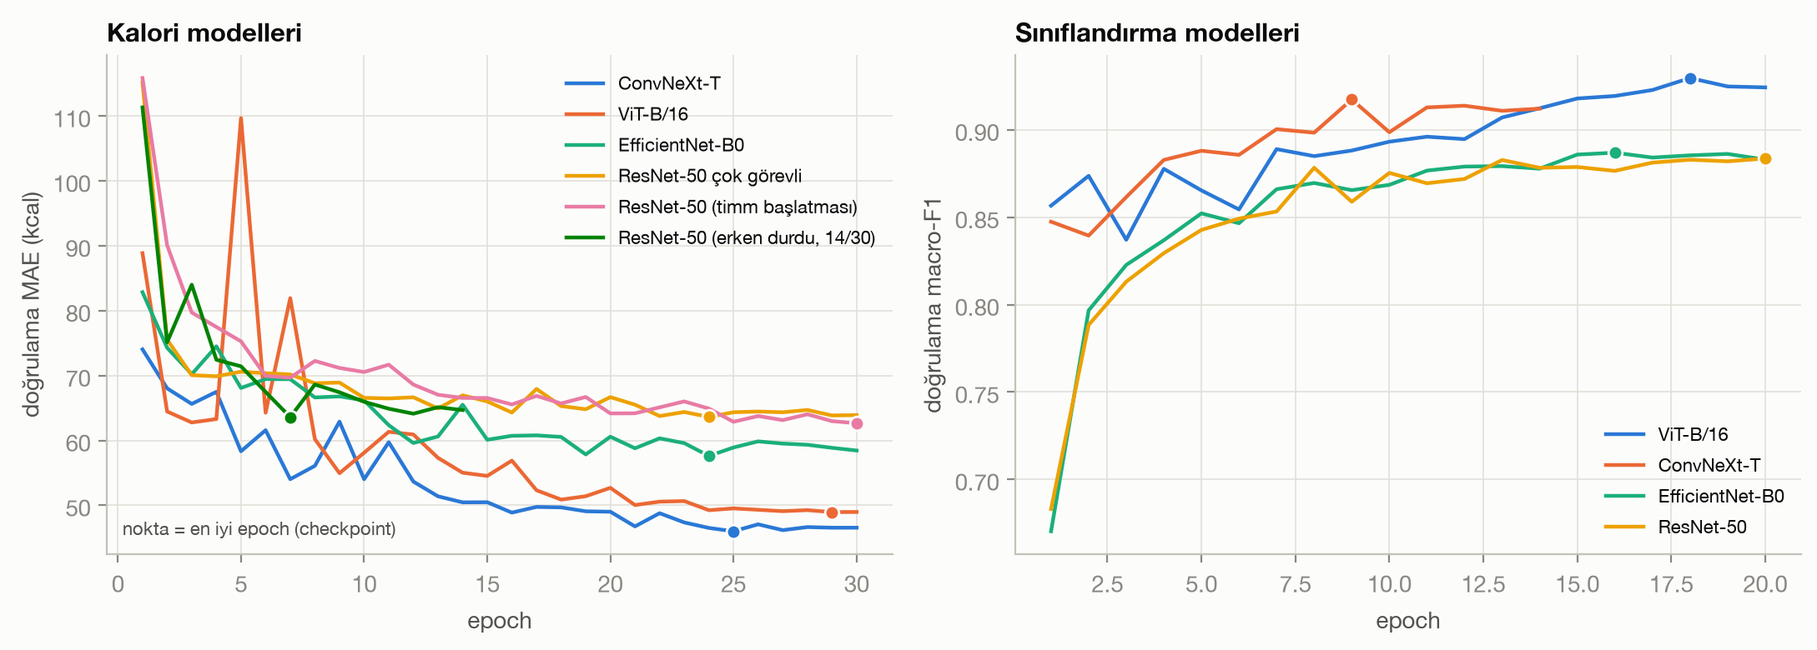
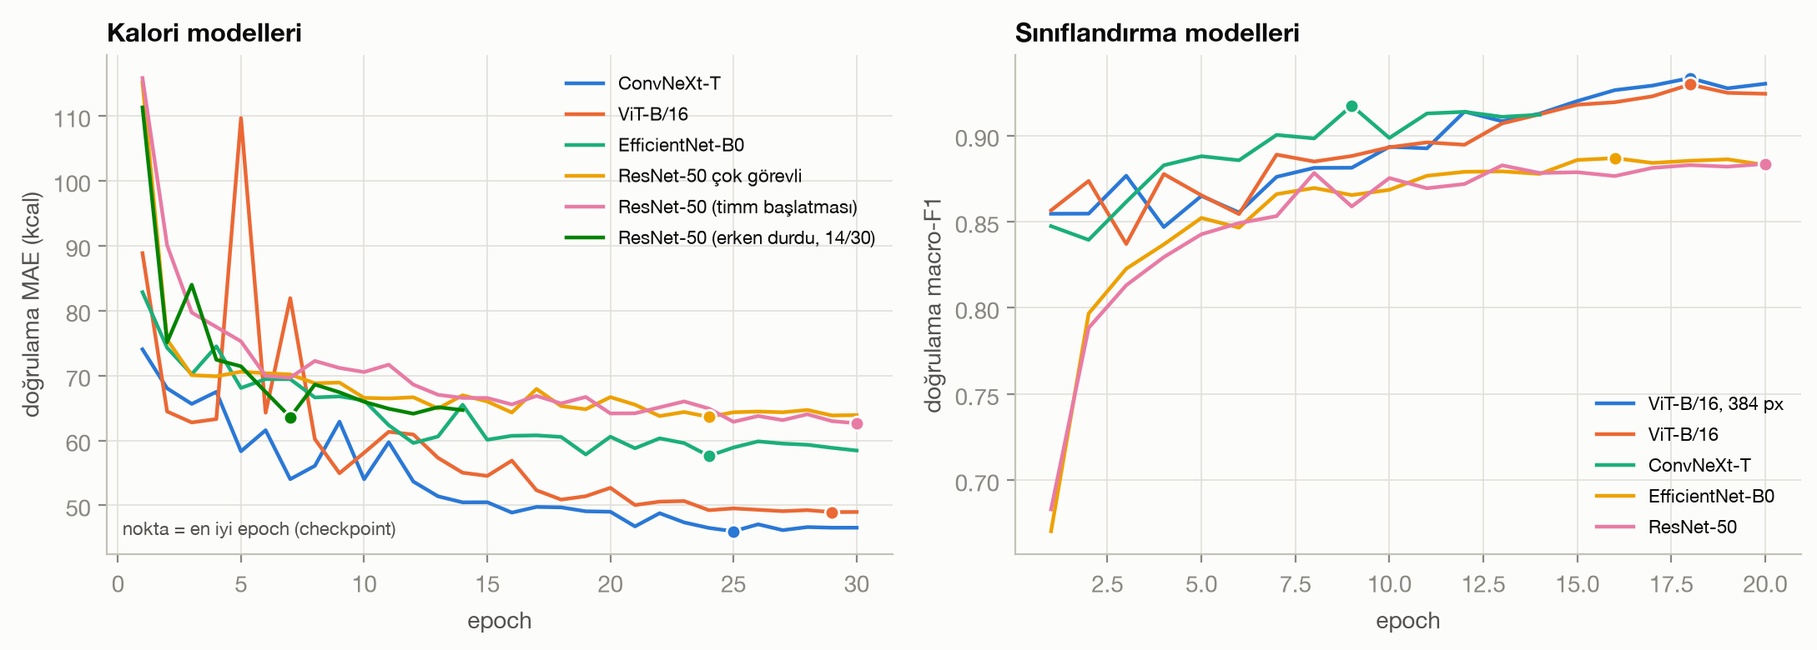
Adım 17 sonuçları: ablation tablosu ve bulguları README §2, Tablo 1-2 güncellendi, make_figures/leakage yeni modelleri kapsıyor, Adım 18 önerisi

diff --git a/src/make_figures.py b/src/make_figures.py
@@ -55,22 +55,28 @@ MODEL_NAMES = {
     "efficientnet_b0_reg": "EfficientNet-B0",
     "vit_b16_reg": "ViT-B/16",
     "convnext_tiny_reg": "ConvNeXt-T",
+    "convnext_tiny_reg_mt": "ConvNeXt-T çok görevli",
+    "convnext_tiny_reg_log1p": "ConvNeXt-T, log1p hedef",
+    "convnext_tiny_reg_noaug": "ConvNeXt-T, artırmasız",
     "vlm_gemini_3_5_flash_lite": "VLM sıfır-atış (Gemini 3.5 Flash-Lite)",
     "resnet50_cls": "ResNet-50",
     "efficientnet_b0_cls": "EfficientNet-B0",
     "convnext_tiny_cls": "ConvNeXt-T",
     "vit_b16_cls": "ViT-B/16",
+    "vit_b16_384_cls": "ViT-B/16, 384 px",
 }
 # Tablo 1 (sınıflandırma) ve Tablo 2 (kalori) satırları, README'deki sırayla
-TABLO1_MODELS = ["naive_most_frequent", "cnn_logreg", "resnet50_cls", "efficientnet_b0_cls", "convnext_tiny_cls", "vit_b16_cls"]
+TABLO1_MODELS = ["naive_most_frequent", "cnn_logreg", "resnet50_cls", "efficientnet_b0_cls", "convnext_tiny_cls", "vit_b16_cls", "vit_b16_384_cls"]
 TABLO2_MODELS = ["naive_mean", "cnn_xgb", "resnet50_reg_timminit", "resnet50_reg", "resnet50_reg_mt",
                  "efficientnet_b0_reg_timminit", "efficientnet_b0_reg", "vit_b16_reg", "convnext_tiny_reg",
-                 "vlm_gemini_3_5_flash_lite"]
+                 "convnext_tiny_reg_mt", "convnext_tiny_reg_log1p", "convnext_tiny_reg_noaug", "vlm_gemini_3_5_flash_lite"]
 # Model karşılaştırma figürü ve aralık başına MAE: kötü/yinelenen run'lar hariç
 COMPARE_MODELS = ["naive_mean", "vlm_gemini_3_5_flash_lite", "cnn_xgb", "resnet50_reg_timminit", "resnet50_reg_mt",
-                  "efficientnet_b0_reg", "vit_b16_reg", "convnext_tiny_reg"]
+                  "efficientnet_b0_reg", "vit_b16_reg", "convnext_tiny_reg", "convnext_tiny_reg_mt"]
+# Ablation tablosu (Adım 17): ConvNeXt-T üzerinde tek tek değişiklikler; ilk eleman referans
+ABLATION_MODELS = ["convnext_tiny_reg", "convnext_tiny_reg_mt", "convnext_tiny_reg_log1p", "convnext_tiny_reg_noaug"]
 HISTORY_REG = ["convnext_tiny_reg", "vit_b16_reg", "efficientnet_b0_reg", "resnet50_reg_mt", "resnet50_reg_timminit", "resnet50_reg"]
-HISTORY_CLS = ["vit_b16_cls", "convnext_tiny_cls", "efficientnet_b0_cls", "resnet50_cls"]
+HISTORY_CLS = ["vit_b16_384_cls", "vit_b16_cls", "convnext_tiny_cls", "efficientnet_b0_cls", "resnet50_cls"]
 # Literatür referansları (README §2 tablosu): kcal MAE
 LITERATURE = [("Sıfır-atış VLM (Gemini 3.0 Flash)", 80.7), ("Nutrition5k RGB (JFT ön eğitimli)", 70.6)]
 LITERATURE_BAND = (37.0, 40.0, "Segmentasyon / tahmini derinlik")
@@ -182,6 +188,20 @@ def tablo3_md(results, models=TABLO2_MODELS):
                      f"{fmt_tr(r.f1, 3)} [{fmt_tr(r.f1_ci_low, 3)}–{fmt_tr(r.f1_ci_high, 3)}]"])
     return md_table(["Tablo 3 · Kalori aralığı (düşük < 116,1 ≤ orta < 313,7 ≤ yüksek kcal, test)",
                      "Doğruluk", "Precision (macro)", "Recall (macro)", "Macro-F1 [%95 GA]"], rows)
+
+
+def tablo_ablation_md(results, models=ABLATION_MODELS):
+    """Adım 17 ablation tablosu: referansa göre MAE farkı yalnızca nokta tahmin; güven aralığı için `src.compare`."""
+    base = results_row(results, "calorie", models[0]).MAE
+    rows = []
+    for m in models:
+        r = results_row(results, "calorie", m)
+        b = results_row(results, "calorie_bins", m)
+        d = r.MAE - base
+        rows.append([model_name(m), f"{fmt_tr(r.MAE)} [{fmt_tr(r.MAE_ci_low)}–{fmt_tr(r.MAE_ci_high)}]",
+                     "—" if m == models[0] else f"{'+' if d >= 0 else '−'}{fmt_tr(abs(d))}",
+                     fmt_tr(r.PMAE, 1, percent=True), fmt_tr(r.R2, 2), fmt_tr(r.within_100kcal, 1, percent=True), fmt_tr(b.f1, 3)])
+    return md_table(["Ablation (ConvNeXt-T, Nutrition5k test)", "MAE (kcal) [%95 GA]", "Δ MAE", "PMAE", "R²", "±100 kcal içinde", "Tablo 3 F1"], rows)
 
 
 # ---------------------------------------------------------------- veri okuma
@@ -491,7 +511,8 @@ def main(argv=None):
 
     # 10. tablolar
     for name, text in [("tablo1.md", tablo1_md(results)), ("tablo2.md", tablo2_md(results)),
-                       ("tablo3_kalori_araligi.md", tablo3_md(results))]:
+                       ("tablo3_kalori_araligi.md", tablo3_md(results)),
+                       ("tablo_ablation.md", tablo_ablation_md(results))]:
         (results_dir / name).write_text(text, encoding="utf-8")
         print(f"→ results/{name}\n{text}")
     return captions

diff --git a/src/leakage.py b/src/leakage.py
@@ -20,10 +20,11 @@ from .data import dish_time, load_n5k_split, read_dish_ingredients
 from .metrics import bootstrap_ci, mae
 
 MODELS = ["naive_mean", "vlm_gemini_3_5_flash_lite", "cnn_xgb", "resnet50_reg_timminit", "resnet50_reg_mt",
-          "efficientnet_b0_reg", "vit_b16_reg", "convnext_tiny_reg"]
+          "efficientnet_b0_reg", "vit_b16_reg", "convnext_tiny_reg", "convnext_tiny_reg_mt"]
 LABELS = {"naive_mean": "Naif", "vlm_gemini_3_5_flash_lite": "VLM (Flash-Lite)", "cnn_xgb": "ResNet-50 + XGBoost",
           "resnet50_reg_timminit": "ResNet-50", "resnet50_reg_mt": "ResNet-50 çok görevli",
-          "efficientnet_b0_reg": "EfficientNet-B0", "vit_b16_reg": "ViT-B/16", "convnext_tiny_reg": "ConvNeXt-T"}
+          "efficientnet_b0_reg": "EfficientNet-B0", "vit_b16_reg": "ViT-B/16", "convnext_tiny_reg": "ConvNeXt-T",
+          "convnext_tiny_reg_mt": "ConvNeXt-T çok görevli"}
 
 
 def has_train_sibling(test_ids, train_ids, ingredients, gap=VAL_GROUP_GAP_SEC):

diff --git a/README.md b/README.md
@@ -104,7 +104,8 @@ Uçtan uca ince ayar, §6.1'deki ortak ayarlar (AdamW, omurga 1e-4 / başlık 1e
 | ResNet-50 (ince ayar) | %91,3 | 0,912 [0,905–0,919] | %99,0 | 23,6 M | 1,31 |
 | EfficientNet-B0 (ince ayar) | %91,7 | 0,917 [0,909–0,924] | %99,0 | 4,0 M | 0,70 |
 | ConvNeXt-T (ince ayar) | %94,1 | 0,941 [0,935–0,947] | %99,4 | 27,8 M | 1,49 |
-| **ViT-B/16 (ince ayar)** | **%95,1** | **0,951** [0,945–0,956] | %99,3 | 85,8 M | 2,40 |
+| ViT-B/16 (ince ayar) | %95,1 | 0,951 [0,945–0,956] | %99,3 | 85,8 M | 2,40 |
+| **ViT-B/16, 384 px (Adım 17)** | **%95,7** | **0,957** [0,952–0,962] | %99,4 | 86,1 M | 9,69 |
 
 | Tablo 2 · Nutrition5k (test) | MAE (kcal) | PMAE | R² | ±100 kcal içinde | Tablo 3 F1 | MAE balıksız / balıklı |
 | --- | --- | --- | --- | --- | --- | --- |
@@ -114,10 +115,13 @@ Uçtan uca ince ayar, §6.1'deki ortak ayarlar (AdamW, omurga 1e-4 / başlık 1e
 | EfficientNet-B0, hatalı başlatma (ilk run) | 104,4 [97,0–112,4] | %40,9 | 0,58 | %57,6 | 0,600 | — |
 | EfficientNet-B0, düzeltilmiş başlatma | 52,8 [47,9–58,3] | %20,7 | 0,86 | %85,0 | 0,817 | 51,2 / 86,6 |
 | ViT-B/16 (Adım 13) | 47,3 [42,2–52,8] | %18,5 | 0,87 | %86,6 | 0,859 | 45,8 / 79,2 |
-| **ConvNeXt-T (Adım 13)** | **41,4** [37,3–46,4] | **%16,2** | **0,89** | **%89,0** | **0,861** | 39,8 / 75,1 |
+| ConvNeXt-T (Adım 13) | 41,4 [37,3–46,4] | %16,2 | 0,89 | %89,0 | 0,861 | 39,8 / 75,1 |
+| **ConvNeXt-T çok görevli: kalori + kütle + makrolar (Adım 17)** | **40,3** [36,2–45,3] | **%15,8** | **0,90** | %88,4 | 0,869 | 38,4 / 80,8 |
+| ConvNeXt-T, `log1p` hedef (Adım 17) | 43,3 [38,8–48,6] | %17,0 | 0,88 | **%89,9** | **0,871** | 41,5 / 81,2 |
+| ConvNeXt-T, veri artırmasız (Adım 17) | 46,2 [41,4–51,2] | %18,1 | 0,88 | %86,2 | 0,857 | 44,9 / 73,0 |
 | VLM sıfır-atış: Gemini 3.5 Flash-Lite (Adım 14) | 82,1 [73,8–90,0] | %32,1 | 0,65 | %74,0 | 0,751 | 81,6 / 93,0 |
 
-Balıklı tabak = malzeme listesinde `fish` geçen tabak; test kümesinde 23 tane (484 balıksız). Eski kalori sonuçları `results.csv`'de `*_timminit` adıyla duruyor.
+Balıklı tabak = malzeme listesinde `fish` geçen tabak; test kümesinde 23 tane (484 balıksız). Eski kalori sonuçları `results.csv`'de `*_timminit` adıyla duruyor. Adım 17 satırları aşağıdaki ablation bölümünde yorumlanıyor.
 
 **Adım 10–11 bulguları (ilk Kaggle run'ı):**
 
@@ -129,12 +133,31 @@ Balıklı tabak = malzeme listesinde `fish` geçen tabak; test kümesinde 23 tan
 **Adım 12–13 bulguları (ikinci Kaggle run'ı, 29 Ekim):**
 
 5. **Kaloride en iyi model ConvNeXt-T: 41,4 kcal, PMAE %16,2.** Fark ViT-B/16'ya göre −5,9 kcal [−8,9; −3,1], EfficientNet-B0'a göre −11,4 [−15,5; −7,7], klasik ML'nin en iyisi XGBoost'a göre −35,9 [−41,6; −30,6]; hepsi anlamlı. Her iki literatür hedefi (80,7 ve 70,6) artık bütün ince ayarlı modellerce geçildi; ConvNeXt-T, segmentasyon/derinlik kullanan çalışmaların 37–40 kcal aralığının hemen üstünde ve **yalnızca RGB** kullanıyor. Kardeş-sızıntısı endişesi Adım 16'da ölçüldü ve etkisi çıkmadı (§2), literatürle karşılaştırma bu açıdan güvenli.
-6. **Sınıflandırmada en iyi model ViT-B/16: F1 0,951.** ConvNeXt-T'den +0,009 [+0,004; +0,015], EfficientNet-B0'dan +0,034 [+0,028; +0,041]; ikisi de anlamlı ama küçük. ViT'nin parametresi EfficientNet-B0'ın 21 katı, çıkarımı 3,4 kat yavaş. Demo için EfficientNet-B0 veya ConvNeXt-T daha mantıklı; son seçim Adım 18'de.
+6. **Sınıflandırmada en iyi model ViT-B/16: F1 0,951.** ConvNeXt-T'den +0,009 [+0,004; +0,015], EfficientNet-B0'dan +0,034 [+0,028; +0,041]; ikisi de anlamlı ama küçük. ViT'nin parametresi EfficientNet-B0'ın 21 katı, çıkarımı 3,4 kat yavaş. Demo için EfficientNet-B0 veya ConvNeXt-T daha mantıklı. Adım 17'de 384 px ViT bunu 0,957'ye çıkardı (aşağıda).
 7. **ResNet-50 düzeltilmiş başlatmayla kötüleşti (59,7 → 68,7; +9,0 [+4,7; +13,8]) ve bunun sebebi başlatma değil, erken durdurma.** Yeni run 7. epoch'ta en iyi val'ini (63,6) gördü, 7 epoch iyileşme olmayınca 14. epoch'ta durdu; eski run 30 epoch'un tamamını koştu ve val'i 62,7'ydi. Val MAE'leri neredeyse aynı (63,6 ve 62,7) ama test 9 kcal farklı: **280 tabaklık val, model seçimi için gürültülü**, ve `--patience 7` cosine'ın ortasında kesebiliyor. Düzeltilmiş başlatmayla başlayan diğer üç kalori modeli (EfficientNet-B0, ConvNeXt-T, ViT) 24–29. epoch'ta en iyisini buldu ve sorun yaşamadı. Adım 17 için ders: kalori ablation'larında `--patience` ≥ 10 (veya sabit 30 epoch) ve mümkünse 2–3 tohumla tekrar.
-8. **Çok görevli başlık (Adım 12) en az tek görevli kadar iyi; "daha iyi" demek için kanıt yetersiz.** ResNet-50 çok görevli 58,0 kcal: aynı run'daki tek görevli ResNet-50'den (68,7) anlamlı iyi (−10,7 [−14,9; −7,0]), ama eski tek görevli run'dan (59,7) farkı anlamlı değil (−1,6 [−5,4; +2,4]). Tek görevli run erken durduğu için karşılaştırma kirli (madde 7). Yan çıktılar (test MAE): kütle 41,4 g, yağ 4,3 g, karbonhidrat 6,5 g, protein 6,2 g. Temiz cevap için Adım 17'de ConvNeXt-T'ye çok görevli başlık eklenip aynı ayarlarla tek görevliyle karşılaştırılmalı; §3'teki araştırma sorusu önerisi buna bağlı.
+8. **Çok görevli başlık (Adım 12) en az tek görevli kadar iyi; "daha iyi" demek için kanıt yetersiz.** ResNet-50 çok görevli 58,0 kcal: aynı run'daki tek görevli ResNet-50'den (68,7) anlamlı iyi (−10,7 [−14,9; −7,0]), ama eski tek görevli run'dan (59,7) farkı anlamlı değil (−1,6 [−5,4; +2,4]). Tek görevli run erken durduğu için karşılaştırma kirli (madde 7). Yan çıktılar (test MAE): kütle 41,4 g, yağ 4,3 g, karbonhidrat 6,5 g, protein 6,2 g. Temiz tekrar Adım 17'de ConvNeXt-T ile yapıldı: fark yine anlamlı değil (aşağıda, ablation madde 1).
 9. **Balıklı tabaklar bütün modellerde 1,7–1,9 kat daha kötü** (ConvNeXt-T: balıksız 39,8, balıklı 75,1 kcal). EDA'daki bulguyla tutarlı: balık kalorisi veri setinde eksik kayıtlı, yani hata kısmen etiketten geliyor. Raporda Tablo 2'nin yanında ayrı sütun olarak verilmeli; Adım 16 hata analizinde "en kötü 20 tabak" listesinde balıklılar işaretlenmeli.
 10. **Val–test ilişkisi beklendiği gibi.** Kaloride test, val'den iyi (ConvNeXt-T 46,0 → 41,4), kardeş-sızıntısı tahminiyle uyumlu; sınıflandırmada da test > val (ViT 0,930 → 0,951), madde 3'teki sebeple.
 11. **Süre (T4, bir epoch):** kalori modelleri 27–30 sn (2472 görüntü); sınıflandırma EfficientNet-B0 52 sn, ResNet-50 73 sn, ConvNeXt-T 83 sn, ViT-B/16 145 sn (16 865 görüntü). Notebook 11 toplam ~2,5 saat sürdü (eğitim ~2,2 sa + değerlendirme).
+
+### Ablation bulguları (Adım 17, `notebooks/12_ablation_kaggle_adim17.ipynb`, Kaggle T4, 31 Ekim – 1 Kasım)
+
+Adım 13'teki ConvNeXt-T ayarları sabit tutuldu (AdamW, 1e-4 / 1e-3, 30 epoch, L1, 224 px, tohum 42); her satırda **tek bir şey** değişti. Erken durdurma `--patience 10` ile yapıldı ve hiçbir run erken durmadı (en iyi epoch 22–25/30), yani Adım 12–13'teki ResNet-50 sorunu (madde 7) tekrarlanmadı. Tablo `python -m src.make_figures` ile `results/tablo_ablation.md`'ye de yazılır; Δ sütunu nokta tahmindir, güven aralıkları metinde (`src.compare`, eşleştirilmiş bootstrap).
+
+| Ablation (ConvNeXt-T, Nutrition5k test) | MAE (kcal) [%95 GA] | Δ MAE | PMAE | R² | ±100 kcal içinde | Tablo 3 F1 | Yan çıktılar (test MAE) |
+| --- | --- | --- | --- | --- | --- | --- | --- |
+| ConvNeXt-T, yalnızca kalori (Adım 13, referans) | 41,4 [37,3–46,4] | — | %16,2 | 0,89 | %89,0 | 0,861 | — |
+| + çok görevli başlık (kalori + kütle + yağ + karbonhidrat + protein) | **40,3** [36,2–45,3] | −1,1 | **%15,8** | **0,90** | %88,4 | 0,869 | kütle 25,5 g · yağ 3,1 g · karb 4,6 g · protein 4,2 g |
+| `log1p` hedef (yalnızca kalori) | 43,3 [38,8–48,6] | +1,9 | %17,0 | 0,88 | **%89,9** | **0,871** | — |
+| veri artırması yok (yalnızca kalori) | 46,2 [41,4–51,2] | +4,7 | %18,1 | 0,88 | %86,2 | 0,857 | — |
+| Sınıflandırma: ViT-B/16 224 px → **384 px** (Food-101, Tablo 1) | F1 0,951 → **0,957** [0,952–0,962] | +0,007 | — | — | — | — | 2,40 → 9,69 ms/görüntü; 145 → 588 sn/epoch |
+
+1. **Çok görevli başlık kaloriyi anlamlı iyileştirmiyor, ama bedavaya kütle ve makro veriyor.** 40,3'e karşı 41,4: fark −1,1 kcal [−2,8; +0,6], anlamlı değil. Bu, araştırma sorusunun (§3 Açık konular) temiz cevabı: *"kütle ve makroları birlikte öğrenmek yalnızca kalori öğrenmekten daha iyi değil, ama daha kötü de değil; aynı maliyetle dört ek çıktı veriyor."* Yan çıktılar ResNet-50 çok görevliden (madde 8) belirgin iyi: kütle 41,4 → 25,5 g, yağ 4,3 → 3,1 g, karbonhidrat 6,5 → 4,6 g, protein 6,2 → 4,2 g. Her iki model de 25. epoch'ta en iyi val'ini buldu; epoch süresi aynı (27–29 sn). **Adım 18 önerisi:** demo ve final satırı için çok görevli ConvNeXt-T (kalori eşit, çıktı daha zengin).
+2. **`log1p` hedef kaloriyi iyileştirmiyor; EDA'daki "ham kcal + L1" kararı doğruydu.** 43,3'e karşı 41,4: +1,9 [−0,2; +4,2], sınırda ama anlamlı değil; çok görevliye göre ise anlamlı kötü (+3,0 [+0,8; +5,5]). Beklenen etkisi görülüyor: hata küçük tabaklara kayıyor, MAPE düşüyor (%28,6 → %24,9), Tablo 3 F1 ve ±100 kcal oranı biraz artıyor, ama büyük tabaklarda (toplam MAE'yi belirleyen yer, bkz. Adım 15 madde 2) hata büyüyor. Rapor için: hedef metriği MAE ise `log1p` kullanılmaz; MAPE/aralık doğruluğu önemliyse düşünülebilir.
+3. **Veri artırması yaklaşık 5 kcal (%11) değerinde ve anlamlı.** Artırmasız 46,2'ye karşı 41,4: +4,7 [+2,5; +7,1]. Artırmasız run'ın train kaybı en düşük (0,007'ye karşı 0,043) ama val'i en kötü (48,8'e karşı 46,0): klasik aşırı öğrenme. §6.1'deki ölçek korumalı `calorie_transform` (çevirme, döndürme, renk; kırpma/yeniden boyutlama yok) tek başına bu farkı sağlıyor. Epoch %30 daha hızlı (19 sn), o kadar.
+4. **384 px ViT sınıflandırmada en iyi: F1 0,957.** 224 px ViT'ye göre +0,007 [+0,002; +0,011], ConvNeXt-T'ye göre +0,016 [+0,010; +0,022]; ikisi de anlamlı ama küçük. Bedeli büyük: çıkarım 4 kat yavaş (9,69 ms), eğitim 4 kat uzun (20 epoch 3,3 sa, notebook 12'nin süresinin %80'i). Tablo 1'in en iyi satırı bu, ama demo/ürün için ConvNeXt-T (0,941, 1,49 ms) daha mantıklı bir denge; raporda "çözünürlük kazancı küçük ve pahalı" bulgusu olarak verilmeli.
+5. **Denenmeyenler ve neden:** tahmini derinlik kanalı (Depth Anything V2) ve ensemble/TTA planlanmıştı (§7 Faz 5), süre yüzünden ablation'a girmedi. Hata analizi (Adım 15) en büyük hataların "yeşilliğin altına gizlenmiş protein" tabaklarında olduğunu gösterdi; bu, RGB'den çözülemeyen bir porsiyon/örtüşme sorunu ve derinlik kanalının en çok işe yarayacağı yer. Raporun "gelecek çalışma" bölümüne.
+6. **Tekrarlanabilirlik notu:** tüm karşılaştırmalar tek tohumla (42). Çok görevli ve `log1p` farkları güven aralığının sınırında; 2–3 tohumla tekrar olmadan "eğilim" diye yazılmalı, "iyileşme/kötüleşme" diye değil. Augmentasyon ve 384 px farkları tek tohumda bile aralığın dışında.
 
 ### VLM sıfır-atış referansı (Adım 14, `python -m src.vlm_eval`)
 
@@ -146,7 +169,7 @@ Gemini 3.5 Flash-Lite, 512 px JPEG, sıcaklık 0, sabit prompt (kalemler + gram 
 
 ### Değerlendirme bulguları (Adım 15, `python -m src.make_figures` + `python -m src.gradcam`)
 
-Bütün figürler `results/preds/` ve `results/history/` dosyalarından üretilir; GPU ve checkpoint gerekmez (yalnızca Grad-CAM için `checkpoints/convnext_tiny_reg.pt`). Rapora yapıştırmaya hazır tablolar: `results/tablo1.md`, `tablo2.md` (precision/recall ve RMSE dahil), `tablo3_kalori_araligi.md`.
+Bütün figürler `results/preds/` ve `results/history/` dosyalarından üretilir; GPU ve checkpoint gerekmez (yalnızca Grad-CAM için `checkpoints/convnext_tiny_reg.pt`). Rapora yapıştırmaya hazır tablolar: `results/tablo1.md`, `tablo2.md` (precision/recall ve RMSE dahil), `tablo3_kalori_araligi.md`, `tablo_ablation.md` (Adım 17).
 
 | Tablo 3 · Kalori aralığı (düşük < 116,1 ≤ orta < 313,7 ≤ yüksek kcal, test) | Doğruluk | Precision (macro) | Recall (macro) | Macro-F1 [%95 GA] |
 | --- | --- | --- | --- | --- |
@@ -189,6 +212,7 @@ EDA'daki endişe: resmi test tabaklarının %22'sinin train'de "kardeşi" var (1
 | EfficientNet-B0 | 50,8 | 53,4 | 0,95 |
 | ViT-B/16 | 45,6 | 47,8 | 0,95 |
 | ConvNeXt-T | 45,0 [32,6–59,1] | 40,4 [35,7–45,7] | 1,11 |
+| ConvNeXt-T çok görevli (Adım 17) | 42,0 [31,2–54,9] | 39,8 [35,1–45,2] | 1,05 |
 
 **Sonuç: kardeşli tabaklar daha kolay değil.** Oranlar 0,95–1,14 arasında ve bütün güven aralıkları üst üste; en iyi modelde kardeşli tabaklar hatta biraz daha zor (yüksek kalorili dizilerin sonları). Yani test MAE'miz kardeş-sızıntısı yüzünden iyimser değil; "val testten kötü çıkacak" beklentisinin asıl sebebi val'in zaman gruplu ve küçük (280) olması. Raporun sınırlılıklar bölümünde bu ölçüm verilir, çekince kaldırılır. Not: yalnızca zaman komşuluğuna bakılırsa test tabaklarının %82'sinin 10 dk içinde train komşusu var (kafeterya aralıksız çekmiş); anlamlı tanım malzeme iç içeliğidir.
 
@@ -200,7 +224,7 @@ EDA'daki endişe: resmi test tabaklarının %22'sinin train'de "kardeşi" var (1
 | ResNet-50, ImageNet ön eğitimli (Andrade 2025) | 117,4 | 46,6 | İlk derin model bu civarda çıkabilir |
 | En iyi sıfır-atış VLM (Gemini 3.0 Flash) | 80,7 | — | **1. hedef** ✅ geçildi (tüm ince ayarlı modeller). Kendi ölçümümüz (Gemini 3.5 Flash-Lite): 82,1 |
 | Orijinal Nutrition5k RGB baseline'ı (JFT ön eğitimli) | 70,6 | 26,1 | **2. hedef** ✅ geçildi |
-| Segmentasyon veya tahmini derinlikle güncel çalışmalar | 37–40 | 14,7–15,7 | İyileştirme fazında yaklaşılacak üst sınır. **ConvNeXt-T yalnızca RGB ile 41,4 / %16,2** (kardeş-sızıntısı ölçüldü, etkisi yok) |
+| Segmentasyon veya tahmini derinlikle güncel çalışmalar | 37–40 | 14,7–15,7 | İyileştirme fazında yaklaşılacak üst sınır. **ConvNeXt-T yalnızca RGB ile 41,4 / %16,2; çok görevli 40,3 / %15,8** (kardeş-sızıntısı ölçüldü, etkisi yok) |
 
 ---
 
@@ -216,17 +240,18 @@ EDA'daki endişe: resmi test tabaklarının %22'sinin train'de "kardeşi" var (1
 | 3 | Baseline modeller | ✅ Naif (Adım 8, `src/baselines.py`) · Klasik ML (Adım 9, `src/classic_ml.py`) · **Kontrol noktası 1 ✅** |
 | 3 | CNN / Transformer eğitimi | ✅ Adım 10–13 (`notebooks/10_egitim_kaggle.ipynb`, `11_egitim_kaggle_adim12-13.ipynb`; bulgular ve Tablo 1–2 §2'de) |
 | 4 | Değerlendirme + VLM referansı | Adım 15 ✅ (figürler, Tablo 1–3) · Adım 14 ✅ (Gemini 3.5 Flash-Lite 82,1 kcal, 507 tabak) |
-| 5 | İyileştirme ve ablation | Adım 16 ✅ (hata analizi §2; kardeş-sızıntısı ölçüldü, etkisi yok) · Adım 17 ⏳ `notebooks/12_ablation_kaggle_adim17.ipynb` Kaggle'da çalıştırılacak |
+| 5–6 | Final model (Adım 18) | ⏳ Öneri §2 ablation madde 1 ve §4: kalori için çok görevli ConvNeXt-T (40,3), sınıflandırma için ViT-B/16 384 px (0,957); ekip onayı bekliyor |
+| 5 | İyileştirme ve ablation | Adım 16 ✅ (hata analizi §2; kardeş-sızıntısı ölçüldü, etkisi yok) · Adım 17 ✅ (`notebooks/12_ablation_kaggle_adim17.ipynb`; ablation tablosu ve bulguları §2'de) |
 | — | Tablolar, figürler, kodun temizlenmesi | Tablolar + figürler ✅ (`src/make_figures.py` ile yeniden üretilir) · kod temizliği ⬜ |
 | 6–7 | Rapor ve sunum | ⬜ Geliştirmeden sonra |
 
-**Kısaca:** Adım 1–16 bitti. En iyiler: sınıflandırmada **ViT-B/16, F1 0,951**; kaloride **ConvNeXt-T, test MAE 41,4 kcal (PMAE %16,2)**. VLM referansı (Gemini 3.5 Flash-Lite) **82,1 kcal**: literatürdeki 80,7 ile tutarlı, ConvNeXt-T'den anlamlı kötü, klasik ML ile başa baş. Hata analizi: en büyük hatalar yeşilliğin altına gizlenmiş proteinli yüksek kalorili tabaklarda (Grad-CAM doğruluyor); kardeş-sızıntısı test MAE'sini iyimser yapmıyor (ölçüldü, §2). Sıradaki: **Adım 17**, `notebooks/12_ablation_kaggle_adim17.ipynb` Kaggle'da (4 ablation, ~3,5 sa).
+**Kısaca:** Adım 1–17 bitti. En iyiler: sınıflandırmada **ViT-B/16 384 px, F1 0,957**; kaloride **ConvNeXt-T çok görevli, test MAE 40,3 kcal (PMAE %15,8)**, tek görevli ConvNeXt-T'den (41,4) anlamlı farklı değil. Ablation: veri artırması anlamlı (+4,7 kcal onsuz), `log1p` ve çok görevli başlık anlamsız fark, 384 px küçük ama anlamlı F1 kazancı ve 4 kat maliyet. VLM referansı (Gemini 3.5 Flash-Lite) **82,1 kcal**: literatürdeki 80,7 ile tutarlı, ConvNeXt-T'den anlamlı kötü, klasik ML ile başa baş. Hata analizi: en büyük hatalar yeşilliğin altına gizlenmiş proteinli yüksek kalorili tabaklarda (Grad-CAM doğruluyor); kardeş-sızıntısı test MAE'sini iyimser yapmıyor (ölçüldü, §2). Sıradaki: **Adım 18** (final model kararı, §4), **Adım 19** (kendi fotoğraflarımız; demo hazır), **Adım 20** (toparlama).
 
 ### Açık konular (karar bekliyor)
 
 | Konu | Durum |
 | --- | --- |
-| **Araştırma sorusu deneylerle uyuşmuyor** | §1'deki soru "yemek türü + kalori birlikte" diyor, ancak tür etiketi Food-101'de, kalori Nutrition5k'da; hiçbir fotoğrafta ikisi birden yok, bu yüzden soru hiçbir deneyde test edilmiyor. Öneri: soruyu Adım 12'ye uydurmak → "Kaloriyle birlikte kütle ve makroları da tahmin etmek, yalnızca kalori tahmininden daha mı iyi?" Food-101 sınıflandırması Tablo 1 için ayrı deney olarak kalır. **Adım 12 sonucu:** ResNet-50'de fark anlamlı değil (§2 madde 8); soru bu haliyle seçilirse Adım 17'de ConvNeXt-T üzerinde temiz bir tekrar şart. |
+| **Araştırma sorusu deneylerle uyuşmuyor** | §1'deki soru "yemek türü + kalori birlikte" diyor, ancak tür etiketi Food-101'de, kalori Nutrition5k'da; hiçbir fotoğrafta ikisi birden yok, bu yüzden soru hiçbir deneyde test edilmiyor. Öneri: soruyu Adım 12'ye uydurmak → "Kaloriyle birlikte kütle ve makroları da tahmin etmek, yalnızca kalori tahmininden daha mı iyi?" Food-101 sınıflandırması Tablo 1 için ayrı deney olarak kalır. **Adım 12 sonucu:** ResNet-50'de fark anlamlı değil (§2 madde 8). **Adım 17 sonucu:** ConvNeXt-T'de temiz tekrar, yine anlamlı değil (−1,1 [−2,8; +0,6]) ama kütle/makro çıktıları bedavaya geliyor (§2 ablation madde 1). Cevap hazır: "daha iyi değil, aynı maliyetle daha zengin". Soru bu şekilde yazılırsa rapor tutarlı. |
 | Teslim tarihi | Belgede yok. Gün 1'in tarihini ve teslim gününü §4'e yazın |
 | İş bölümü | Adım 5'ten sonra iki bağımsız hat var: **kalori** (Nutrition5k EDA → kalori modelleri → iyileştirme) ve **sınıflandırma** (Food-101 → klasik ML → CNN/ViT → VLM betiği). İki kişi paralel çalışırsa süre ve GPU kotası ikiye katlanır |
 | VLM seçimi ve bütçe | ✅ Gemini 3.5 Flash-Lite, ücretsiz katman (günde 500 istek), anahtar traldo'da. Flash modelleri ücretsiz katmanda günde 20 istek → literatürdeki Gemini 3 Flash ile birebir karşılaştırma istenirse faturalandırma (~2–3 $) ya da ikinci sağlayıcı (`--provider openai` hazır). Karar arkadaşa |
@@ -262,11 +287,12 @@ Adımlar sırayla yapılır; her adımın bir çıktısı ve bir "bitti" kriteri
 | 19 | 9 | Demo: fotoğraf yükle → kcal (`app.py` iskeleti hazır) + kendi fotoğraflarımızla test (§7 Faz 4) | Çalışan demo, kısa bir video kaydı, `own_photos` satırları |
 | 20 | 9 | Toparlama: figürlerin son hali, kod temizliği, README | `main` dalında baştan sona çalışan kod. **Kontrol noktası 3** |
 
-**Durum (1 Kasım):** Adım 1–16 ✅ · Adım 17 ⏳ (Kaggle) · Adım 19 demo tarafı ✅ (fotoğraflar bekleniyor) · Kontrol noktası 1 ✅ · Kontrol noktası 2 ✅
+**Durum (1 Kasım):** Adım 1–17 ✅ · Adım 18 ⏳ (karar) · Adım 19 demo tarafı ✅ (fotoğraflar bekleniyor) · Kontrol noktası 1 ✅ · Kontrol noktası 2 ✅
 
 **Sıradaki adım:**
-1. **Adım 17**: `notebooks/12_ablation_kaggle_adim17.ipynb` → Kaggle'a Import → GPU T4 x2 + Internet + Secrets `GH_TOKEN` → Save & Run All (Commit), ~3,5 sa. Dört ablation: ConvNeXt-T çok görevli, `log1p` hedef, augmentasyonsuz, ViT-B/16 384 px. Sonuçlar kendiliğinden `results.csv`'ye gider; sonra `python -m src.make_figures` ile tablolar yenilenir ve ablation tablosu §2'ye yazılır.
-2. **Adım 19 fotoğrafları** eğitimden bağımsız: 15–20 tabak fotoğrafı + tartı (§7 Faz 4). Demo ve dış-test betiği hazır ve ConvNeXt-T checkpoint'iyle doğrulandı (1 Kasım): `python app.py` demoyu açar (varsayılan checkpoint `checkpoints/convnext_tiny_reg.pt`, Mac CPU'da tabak başına ~0,2 s); fotoğraflar `own_photos/` + `labels.csv`'ye konunca `python -m src.eval_own_photos --ckpt checkpoints/convnext_tiny_reg.pt --model convnext_tiny_reg` sonucu `results.csv`'ye yazar. Adım 18'de final model değişirse aynı komutlar o checkpoint'le tekrarlanır.
+1. **Adım 18 — final model kararı (ekip):** öneri, kalori için **ConvNeXt-T çok görevli** (`convnext_tiny_reg_mt`, 40,3 kcal; tek görevliyle fark anlamsız, ama kütle + makro çıktıları var → demoda gösterilir), sınıflandırma için Tablo 1'de **ViT-B/16 384 px** (0,957), demo/hız tartışmasında ConvNeXt-T (0,941, 6,5 kat hızlı). Test ölçümleri zaten `results.csv`'de; karar verilince §2 Hedeflerimiz tablosuna "Bu çalışma" satırı ve §1'e final sayılar yazılır. Checkpoint `convnext_tiny_reg_mt.pt` Release'te (111 MB, Mac'e indirilmedi): `GH_TOKEN=$(gh auth token) python scripts/share_checkpoint.py download convnext_tiny_reg_mt`, sonra `python app.py --ckpt checkpoints/convnext_tiny_reg_mt.pt`.
+2. **Adım 19 fotoğrafları** eğitimden bağımsız: 15–20 tabak fotoğrafı + tartı (§7 Faz 4). Demo ve dış-test betiği hazır ve ConvNeXt-T checkpoint'iyle doğrulandı (1 Kasım): `python app.py` demoyu açar (varsayılan checkpoint `checkpoints/convnext_tiny_reg.pt`, Mac CPU'da tabak başına ~0,2 s); fotoğraflar `own_photos/` + `labels.csv`'ye konunca `python -m src.eval_own_photos --ckpt checkpoints/<final>.pt --model <final>` sonucu `results.csv`'ye yazar.
+3. **Adım 20 — toparlama:** kod temizliği, figürlerin son hali, README'nin rapor için sadeleştirilmesi (kontrol noktası 3).
 
 ---
 
@@ -349,7 +375,7 @@ kalori-tahmini/
 │   ├── history/           ← eğitim eğrileri: epoch başına kayıp ve val skoru (git'te)
 │   ├── data_card_nutrition5k.csv, data_card_food101.csv ← veri kartları (EDA)
 │   ├── vlm/               ← VLM ham yanıtları (jsonl, devam edilebilir; git'te)
-│   ├── tablo1.md, tablo2.md, tablo3_kalori_araligi.md ← rapora hazır tablolar
+│   ├── tablo1.md, tablo2.md, tablo3_kalori_araligi.md, tablo_ablation.md ← rapora hazır tablolar
 │   ├── eval_*.csv         ← karışan çiftler, en kötü 20, aralık MAE
 │   └── figures/           ← n5k_*, f101_* (EDA), eval_* (Adım 15)
 └── checkpoints/           ← git'e EKLENMEZ
@@ -561,16 +587,17 @@ Raporda: Nutrition5k test MAE'si ile kendi fotoğraflarımızdaki MAE yan yana; 
 | Makrolar ile kalori tutarsız | Atwater tutarlılık kaybı |
 | Son birkaç puan | TTA, farklı omurgaların ensemble'ı |
 
-**Ablation tablosu** (`task=ablation`):
+**Ablation tablosu** — dolduruldu, Adım 17 (ayrıntı ve güven aralıkları §2 "Ablation bulguları"):
 
-| Deney | MAE | PMAE | F1 (sınıf) |
+| Deney (ConvNeXt-T, Nutrition5k test) | MAE (kcal) | PMAE | Tablo 3 F1 |
 | --- | --- | --- | --- |
-| Baseline (ResNet-50, augmentation yok) | | | |
-| + veri artırma (kalori: yalnızca `calorie_transform`, §6.1) | | | |
-| + çok görevli başlık (kütle) | | | |
-| + `log1p` hedef + Huber | | | |
-| + tahmini derinlik kanalı | | | |
-| + ensemble / TTA | | | |
+| ConvNeXt-T, veri artırması yok | 46,2 | %18,1 | 0,857 |
+| + veri artırma (kalori: yalnızca `calorie_transform`, §6.1) = Adım 13 referansı | 41,4 | %16,2 | 0,861 |
+| + çok görevli başlık (kütle + makrolar) | **40,3** | **%15,8** | 0,869 |
+| `log1p` hedef (artırmalı, tek görevli) | 43,3 | %17,0 | 0,871 |
+| + tahmini derinlik kanalı | denenmedi (süre) | | |
+| + ensemble / TTA | denenmedi (süre) | | |
+| Sınıflandırma: ViT-B/16 224 → 384 px (Food-101 F1) | 0,951 → **0,957** | | |
 
 **Zaman sıkışırsa:** yalnızca veri artırma ve kütle başlıklı çok görevli öğrenmeyi deneyin. En büyük kazancı bu ikisi getirir.
 
@@ -582,7 +609,7 @@ Raporda: Nutrition5k test MAE'si ile kendi fotoğraflarımızdaki MAE yan yana; 
 | --- | --- | --- |
 | Gün 1 sonu (Adım 5) | Veri indirildi, `metrics.py` hazır | Food-101 alt kümesini 10 sınıfa indirin |
 | **Gün 3 sonu (Adım 9, kontrol noktası 1)** ✅ | Baseline sonuçları Tablo 1 ve 2'de | İyileştirme fazı 2 tekniğe iner (yukarıda) |
-| Gün 6 sonu (Adım 15, kontrol noktası 2) | En iyi model 80,7 kcal'in (VLM) altında | Çok görevli başlık ve `log1p` hedefe öncelik verin |
+| Gün 6 sonu (Adım 15, kontrol noktası 2) ✅ | En iyi model 80,7 kcal'in (VLM) altında | Çok görevli başlık ve `log1p` hedefe öncelik verin |
 | Gün 9 (Adım 20, kontrol noktası 3) | Tüm tablolar dolu, kod `main`'de çalışıyor | — |
 
 | Risk | Önlem |
@@ -616,6 +643,7 @@ Bu dosyanın kapsamı dışında; bilgi için:
 
 | Tarih | Kim | Son tamamlanan adım | Yarım kalan iş / sıradaki adım | Notlar (değişen ayarlar, sorunlar) |
 | --- | --- | --- | --- | --- |
+| 2026-11-01 | traldo | Adım 17 ✅ (Kaggle notebook 12, ~4 sa; sonuçlar §2 "Ablation bulguları") | Adım 18: final model kararı (öneri: ConvNeXt-T çok görevli + ViT-B/16 384 px) · Adım 19 fotoğrafları · Adım 20 | Çok görevli ConvNeXt-T 40,3 (tek görevliden farkı anlamsız, kütle 25,5 g / makrolar 3–5 g), `log1p` 43,3 (anlamsız, MAPE iyileşir), artırmasız 46,2 (anlamlı kötü), ViT-384 F1 0,957 (anlamlı ama 4 kat yavaş). `--patience 10` ile hiçbir run erken durmadı. `src.make_figures` artık `results/tablo_ablation.md` de yazar; `src.leakage` çok görevli modeli de ölçer (oran 1,05). `convnext_tiny_reg_mt.pt` Release'te, Mac'e indirilmedi |
 | 2026-11-01 | traldo | Adım 19 demo tarafı ✅ (Kaggle sonucu beklenirken) | Adım 17: Kaggle'da notebook 12 → sonuçlar; Adım 19: 15–20 tabak fotoğrafı çek | `app.py` (Gradio 6.31) ve `src.eval_own_photos` gerçek ConvNeXt-T checkpoint'iyle uçtan uca denendi: demo tahminleri `results/preds/convnext_tiny_reg.csv` ile birebir, arayüz açılıyor, `own_photos` / `_ust` / `_yan` satırları yazılıyor (deneme 5 Nutrition5k görüntüsüyle yapıldı, `results.csv`'ye yazılmadı). `app.py --ckpt` artık varsayılan olarak `checkpoints/convnext_tiny_reg.pt` |
 | 2026-10-30 | traldo | Adım 16 ✅ (kardeş-sızıntısı ölçümü: etkisi yok) + Adım 17 hazırlığı (notebook 12) | `notebooks/12_ablation_kaggle_adim17.ipynb`'yi Kaggle'da çalıştır (~3,5 sa) | `src/leakage.py` EDA'daki tanımı kullanır (zaman komşusu + iç içe malzeme). Notebook 12: ConvNeXt-T çok görevli / log1p / augmentasyonsuz (`--patience 10`), ViT-B/16 384 px (`--batch-size 16`). ViT-384 ağırlıkları Mac'e indirilmedi, Kaggle'da ilk kez çalışacak |
 | 2026-10-30 | traldo | Adım 15 ✅ (figürler, Tablo 1–3, Grad-CAM) + Adım 14 ✅ (Gemini 3.5 Flash-Lite 82,1 kcal, 507 tabak, iki günde) | Adım 16–17 ablation'ları | `src/make_figures.py` (9 figür + 3 md tablo), `src/gradcam.py`, `src/vlm_eval.py` (stdlib, devam edilebilir). Bulgular §2 "Değerlendirme bulguları": en büyük hatalar yeşillik altındaki proteinli yüksek kalorili tabaklar; apple pie en zayıf sınıf. `checkpoints/convnext_tiny_reg.pt` Mac'e indirildi (git dışı) |

diff --git a/results/tablo2.md b/results/tablo2.md
@@ -9,4 +9,7 @@
 | EfficientNet-B0 | 52,8 [47,9–58,3] | %20,7 | 80,4 | 0,86 | %85,0 |
 | ViT-B/16 | 47,3 [42,2–52,8] | %18,5 | 76,8 | 0,87 | %86,6 |
 | ConvNeXt-T | 41,4 [37,3–46,4] | %16,2 | 69,9 | 0,89 | %89,0 |
+| ConvNeXt-T çok görevli | 40,3 [36,2–45,3] | %15,8 | 67,4 | 0,90 | %88,4 |
+| ConvNeXt-T, log1p hedef | 43,3 [38,8–48,6] | %17,0 | 72,9 | 0,88 | %89,9 |
+| ConvNeXt-T, artırmasız | 46,2 [41,4–51,2] | %18,1 | 73,5 | 0,88 | %86,2 |
 | VLM sıfır-atış (Gemini 3.5 Flash-Lite) | 82,1 [73,8–90,0] | %32,1 | 125,1 | 0,65 | %74,0 |

diff --git a/results/tablo3_kalori_araligi.md b/results/tablo3_kalori_araligi.md
@@ -9,4 +9,7 @@
 | EfficientNet-B0 | %81,7 | 0,821 | 0,815 | 0,817 [0,781–0,848] |
 | ViT-B/16 | %86,0 | 0,861 | 0,859 | 0,859 [0,827–0,889] |
 | ConvNeXt-T | %86,2 | 0,864 | 0,861 | 0,861 [0,828–0,889] |
+| ConvNeXt-T çok görevli | %87,0 | 0,872 | 0,869 | 0,869 [0,837–0,897] |
+| ConvNeXt-T, log1p hedef | %87,2 | 0,875 | 0,871 | 0,871 [0,839–0,899] |
+| ConvNeXt-T, artırmasız | %85,6 | 0,862 | 0,856 | 0,857 [0,825–0,885] |
 | VLM sıfır-atış (Gemini 3.5 Flash-Lite) | %75,7 | 0,750 | 0,752 | 0,751 [0,713–0,784] |

diff --git a/results/tablo_ablation.md b/results/tablo_ablation.md
@@ -1,0 +1,6 @@
+| Ablation (ConvNeXt-T, Nutrition5k test) | MAE (kcal) [%95 GA] | Δ MAE | PMAE | R² | ±100 kcal içinde | Tablo 3 F1 |
+| --- | --- | --- | --- | --- | --- | --- |
+| ConvNeXt-T | 41,4 [37,3–46,4] | — | %16,2 | 0,89 | %89,0 | 0,861 |
+| ConvNeXt-T çok görevli | 40,3 [36,2–45,3] | −1,1 | %15,8 | 0,90 | %88,4 | 0,869 |
+| ConvNeXt-T, log1p hedef | 43,3 [38,8–48,6] | +1,9 | %17,0 | 0,88 | %89,9 | 0,871 |
+| ConvNeXt-T, artırmasız | 46,2 [41,4–51,2] | +4,7 | %18,1 | 0,88 | %86,2 | 0,857 |

diff --git a/results/tablo1.md b/results/tablo1.md
@@ -6,3 +6,4 @@
 | EfficientNet-B0 | %91,7 | 0,918 | 0,917 | 0,917 [0,909–0,923] | %99,0 |
 | ConvNeXt-T | %94,1 | 0,942 | 0,941 | 0,941 [0,935–0,947] | %99,4 |
 | ViT-B/16 | %95,1 | 0,951 | 0,951 | 0,951 [0,945–0,956] | %99,2 |
+| ViT-B/16, 384 px | %95,7 | 0,957 | 0,957 | 0,957 [0,952–0,962] | %99,4 |
